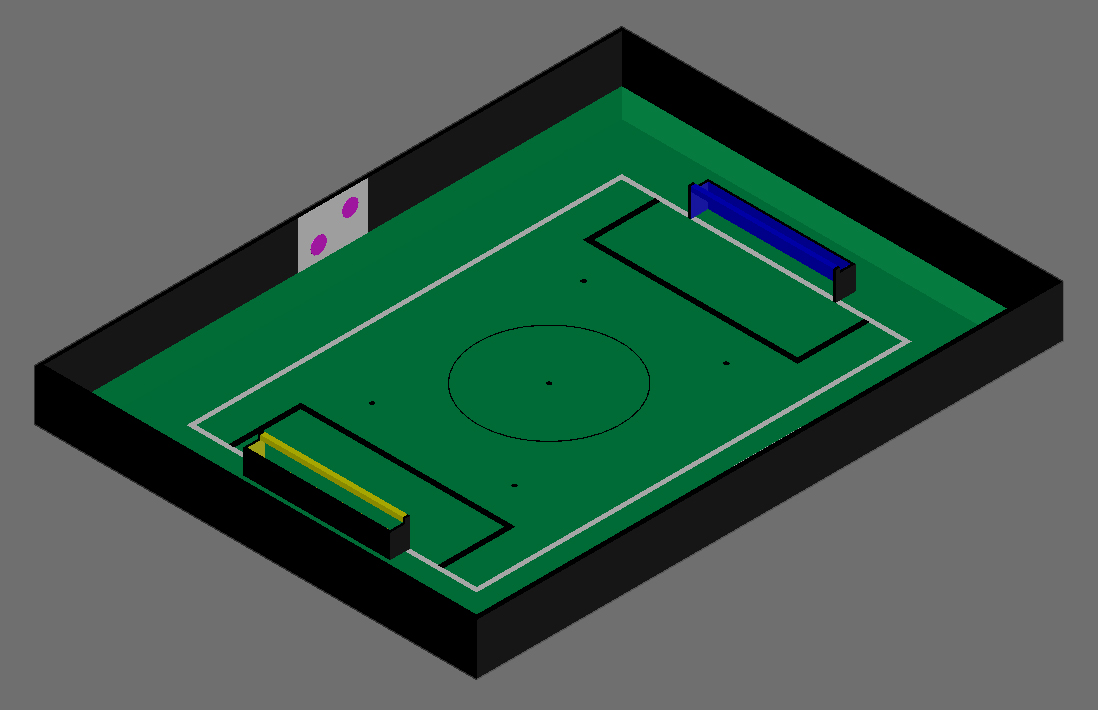
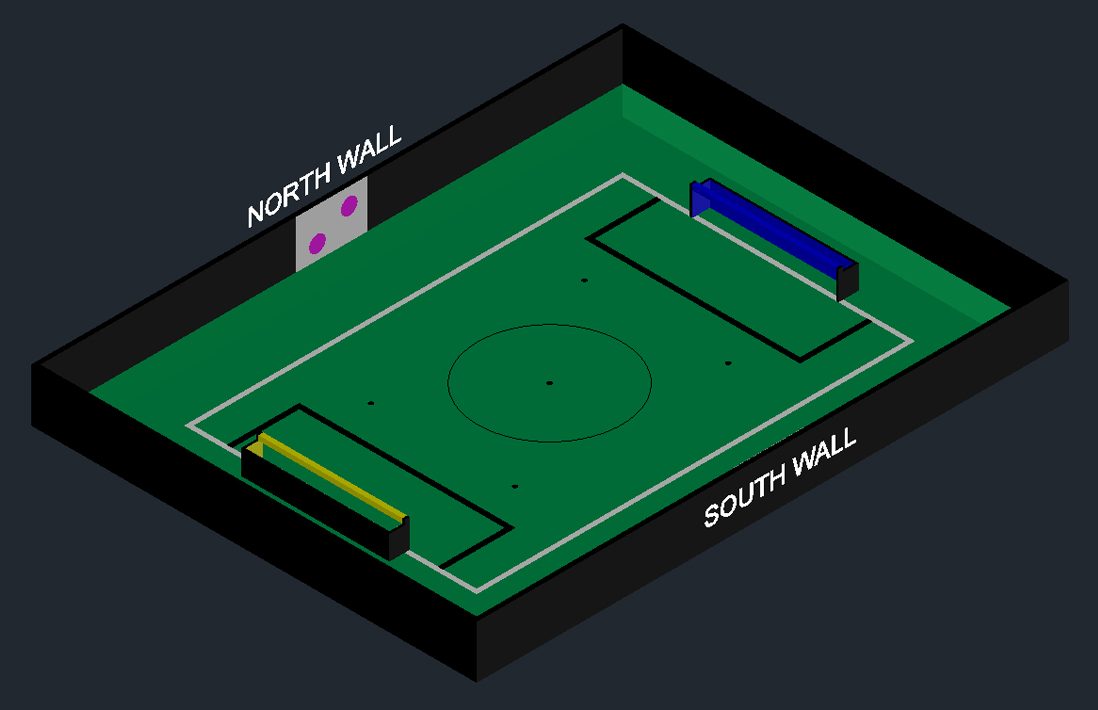
update: Add more info on north/south walls
* Add more info on which walls are to be considered north/south.

diff --git a/tex/rules.tex b/tex/rules.tex
@@ -382,7 +382,7 @@ be taken off or returned with the referee's permission.
 {
 If both robots from the same team are deemed damaged at kickoff,
 gameplay will be paused and the remaining team will be awarded 1 goal for
-every 30 seconds that their oppent's robots remain damaged.
+every 30 seconds that their opponent's robots remain damaged.
 }
 {
 If both robots from the same team are deemed damaged during gameplay, the clock
@@ -608,8 +608,12 @@ in the middle of the wall.}.
 \begin{figure}[H]
     \centering
     \includegraphics[width=0.7\textwidth]{media/landmarks_blueprint.png}
-    \caption{Position of magenta circles on each of the two landamrks, as well
-        as the position of each of the two landmarks on the field.}
+    \caption{Position of magenta circles on each of the two landmarks, as well
+        as the position of each of the two landmarks on the field. Note that in
+        this case ''blue goal to the left/right'' here to the situation when
+        one is looking directly at the blue goal from the center of the field.
+        For more information on the position of landmarks please consult the
+        Field diagrams section.}
     \label{fig:landmarks_blueprint}
 \end{figure}
 
